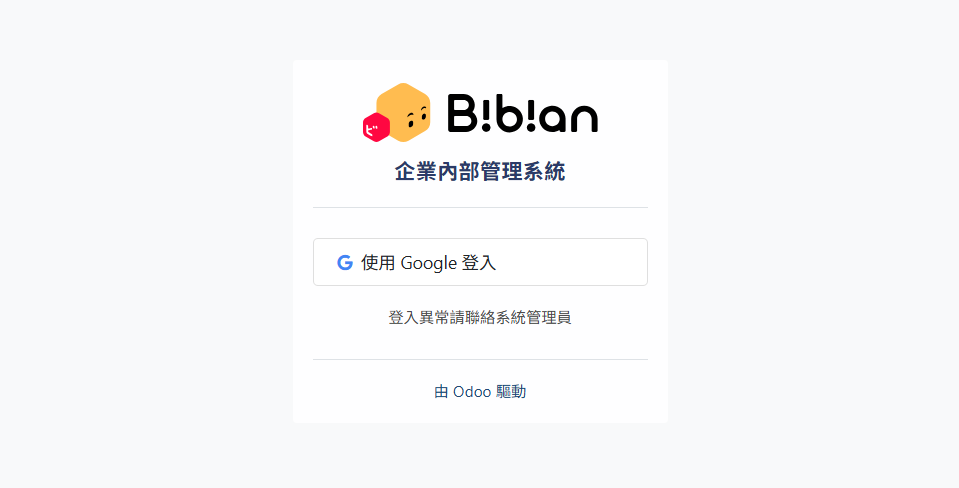
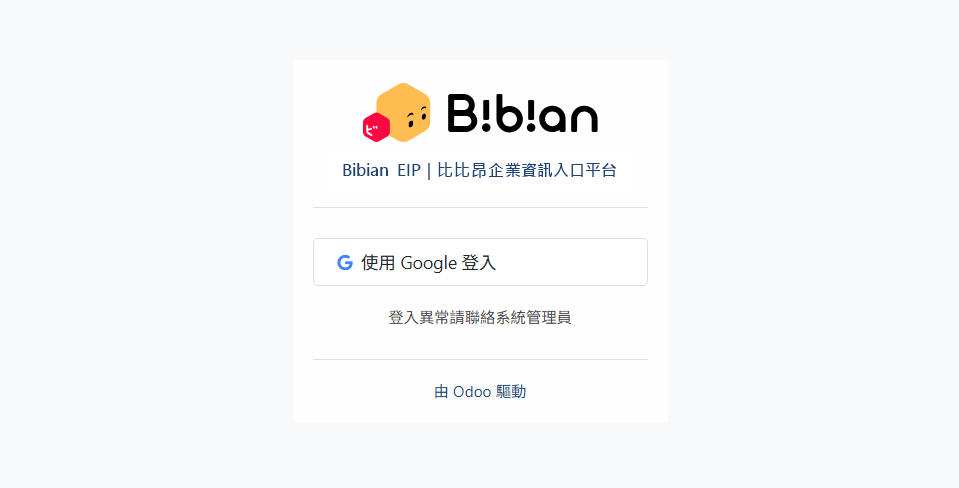
調整版面

Changed region(s): [[0.3629, 0.3074, 0.635, 0.3689]]

diff --git a/manual/index.html b/manual/index.html
@@ -3,7 +3,7 @@
 <html lang="zh-Hant">
 <head>
 <meta charset="utf-8"/>
-<title>比比昂企業內部管理系統—使用者操作手冊</title>
+<title>Bibian EIP 比比昂企業資訊入口平台—使用者操作手冊</title>
 <style>
   :root {
     --navy: #1c3f66;
@@ -117,12 +117,17 @@
     margin: 10px 0 20px;
   }
   section h3 {
-    font-size: 15px;
-    margin: 26px 0 10px;
-    color: var(--text-dark);
+    font-size: 17px;
+    margin: 40px 0 12px;
+    padding: 10px 12px;
+    color: #b45309;
+    background: #fff7ed;
+    border-left: 4px solid var(--orange);
+    border-radius: 0 5px 5px 0;
+    line-height: 1.45;
     scroll-margin-top: 20px;
   }
-  section h3:first-of-type { margin-top: 18px; }
+  section h3:first-of-type { margin-top: 28px; }
   section h4 {
     font-size: 14px;
     margin: 20px 0 8px;
@@ -178,35 +183,33 @@
   .document-link { color: var(--navy); font-weight: 700; }
   .image-link { display: block; cursor: zoom-in; }
   .image-link .shot { margin-bottom: 8px; }
+  .table-scroll { width: 100%; overflow-x: auto; margin-bottom: 18px; }
+  .table-scroll table { margin-bottom: 0; }
   .approval-actions th:first-child, .approval-actions td:first-child { white-space: nowrap; width: 1%; }
+  .role-admin { background: #ece9f8; color: #6047a5; }
   .shot-caption {
     font-size: 12px;
     color: var(--text-gray);
     margin: -14px 0 20px;
   }
   .note {
-    background: #fff8e8;
-    border: 1px solid #f0deac;
+    background: #f5f6f8;
+    border: 1px solid #d8dde5;
+    border-left: 4px solid var(--navy);
     border-radius: 6px;
     padding: 10px 14px;
     font-size: 12.5px;
-    color: #8a6210;
+    color: #4b5563;
     margin: 0 0 16px;
   }
-  .note b { color: #6b4a06; }
+  .note b { color: var(--navy); }
   code {
     background: #f1f2f4;
     border-radius: 3px;
     padding: 1px 5px;
     font-size: 12.5px;
   }
-  mark {
-    background: #fdecc0;
-    color: var(--text-dark);
-    font-weight: 700;
-    padding: 1px 4px;
-    border-radius: 3px;
-  }
+
   .badge {
     display: inline-block;
     font-size: 12px;
@@ -235,8 +238,8 @@
 <div class="doc-header">
 <img alt="Bibian" src="images/logo.png"/>
 <div class="titles">
-<h1>比比昂企業內部管理系統—使用者操作手冊</h1>
-<p>Bibian Enterprise Internal Management System — User Guide</p>
+<h1>Bibian EIP 比比昂企業資訊入口平台—使用者操作手冊</h1>
+<p>Bibian EIP — User Guide</p>
 </div>
 </div>
 <div class="layout">
@@ -244,7 +247,7 @@
 <h3>目錄</h3>
 <ol>
 <li><a href="#s0">關於本手冊</a></li>
-<li><a href="#s1">登入系統</a><ul class="toc-sub"><li><a href="#s1-1">2.1 連線公司環境（安裝 NetBird VPN）</a></li><li><a href="#s1-2">2.2 登入企業內部管理系統</a></li></ul></li>
+<li><a href="#s1">登入系統</a><ul class="toc-sub"><li><a href="#s1-1">2.1 連線公司環境（安裝 NetBird VPN）</a></li><li><a href="#s1-2">2.2 登入 Bibian EIP</a></li></ul></li>
 <li><a href="#s2">系統導覽</a></li>
 <li><a href="#s3">總覽頁面</a></li>
 <li><a href="#s4">請款單管理</a>
@@ -252,15 +255,15 @@
 </li>
 
 
-<li><a href="#s5">代理人設定</a><ul class="toc-sub"><li><a href="#s5-1">6.1 我的代理人</a></li><li><a href="#s5-2">6.2 人員代理設定</a></li></ul></li><li><a href="#s6">登出</a></li>
+<li><a href="#s5">代理人設定</a><ul class="toc-sub"><li><a href="#s5-1">6.1 我的代理人</a></li></ul></li><li><a href="#s6">登出</a></li>
 </ol>
 </nav>
 <div class="content">
-<section id="s0"><h2>關於本手冊</h2><p>本手冊提供「比比昂企業內部管理系統」日常操作說明，協助申請人完成請款單申請、查詢進度，以及協助簽核主管處理待簽核表單。</p><h3>上線範圍</h3><p><mark>目前提供「網家跨境服務股份有限公司」之請款單申請與簽核流程。</mark></p><p>請款單完成核准後，申請人請列印已核准表單，並依現行作業規定備妥相關文件，送交財務單位辦理後續請款作業。</p></section>
-<section id="s1"><h2>登入系統</h2><p class="section-desc">使用正式環境前，請先連線 NetBird VPN，再使用公司 Google 帳號登入。</p><h3 id="s1-1">2.1 連線公司環境（安裝 NetBird VPN）</h3><p>無論使用公司內部或外部網路，皆須先開啟 NetBird，並確認連線狀態顯示為「Connected」。</p><img alt="NetBird VPN 已連線畫面" class="shot shot-vpn" src="images/00-vpn-connected.png"/><p><a class="document-link" href="docs/netbird-setup-guide.pdf" target="_blank" rel="noopener">開啟 NetBird 連線設定教學（PDF）</a></p><div class="note"><b>連線提醒：</b>若 NetBird 未顯示「Connected」，可能無法開啟企業內部管理系統。請先重新連線；仍無法使用時，請聯絡系統管理員。</div><h3 id="s1-2">2.2 登入企業內部管理系統</h3><p>開啟企業內部管理系統登入頁面後，請使用公司 Google 帳號登入。</p><img alt="登入頁" class="shot" src="images/01-login.png"/><ol><li>點擊「使用 Google 登入」。</li><li>選擇或驗證公司的 Google 帳號。</li><li>驗證完成後，系統將自動進入「總覽」頁面。</li></ol><p>若無法登入，請聯絡系統管理員協助處理。</p></section>
+<section id="s0"><h2>關於本手冊</h2><p>本手冊提供「Bibian EIP 比比昂企業資訊入口平台」日常操作說明，協助申請人完成請款單申請、查詢進度，以及協助簽核主管處理待簽核表單。</p><h3>上線範圍：目前提供「網家跨境服務股份有限公司」之請款單申請與簽核流程。</h3><p>請款單完成核准後，申請人請列印已核准表單，並依現行作業規定備妥相關文件，送交財務單位辦理後續請款作業。</p></section>
+<section id="s1"><h2>登入系統</h2><p class="section-desc">使用正式環境前，請先連線 NetBird VPN，再使用公司 Google 帳號登入。</p><h3 id="s1-1">2.1 連線公司環境（安裝 NetBird VPN）</h3><p>無論使用公司內部或外部網路，皆須先開啟 NetBird，並確認連線狀態顯示為「Connected」。</p><img alt="NetBird VPN 已連線畫面" class="shot shot-vpn" src="images/00-vpn-connected.png"/><p><a class="document-link" href="docs/netbird-setup-guide.pdf" target="_blank" rel="noopener">開啟 NetBird 連線設定教學（PDF）</a></p><div class="note"><b>連線提醒：</b>若 NetBird 未顯示「Connected」，可能無法開啟 Bibian EIP。請先重新連線；仍無法使用時，請聯絡系統管理員。</div><h3 id="s1-2">2.2 登入 Bibian EIP</h3><p>開啟 Bibian EIP 登入頁面後，請使用公司 Google 帳號登入。</p><img alt="登入頁" class="shot" src="images/01-login.png"/><ol><li>點擊「使用 Google 登入」。</li><li>選擇或驗證公司的 Google 帳號。</li><li>驗證完成後，系統將自動進入「總覽」頁面。</li></ol><p>若無法登入，請聯絡系統管理員協助處理。</p></section>
 <section id="s2"><h2>系統導覽</h2><p class="section-desc">登入後，可透過頁面上方的導覽列快速切換功能。</p><h3>3.1 切換主要功能</h3><p>點擊左上角九宮格圖示，可切換「總覽」及「表單申請／簽核」。</p><img alt="九宮格選單" class="shot shot-nav" src="images/02-main-menu.png"/><h3>3.2 切換子功能</h3><p>將滑鼠移至導覽列的功能分類，例如「行政相關表單」，即可展開子選單。點擊「請款單管理」後，可進入對應的操作頁面。</p><img alt="子選單展開" class="shot shot-nav" src="images/03-sub-menu.png"/><h3>3.3 確認目前位置</h3><p>Logo 下方的麵包屑會顯示目前所在位置，例如「總覽 &gt; 表單申請／簽核 &gt; 行政相關表單 &gt; 請款單管理」，可協助確認目前操作頁面。</p><h3>3.4 使用者選單</h3><p>點擊右上角的使用者名稱，可開啟使用者選單並登出系統。實際顯示功能會依帳號權限而有所不同。</p></section>
-<section id="s3"><h2>總覽頁面</h2><p class="section-desc">登入後會先進入「總覽」，可快速查看與自己相關的申請及待簽核事項。</p><img alt="總覽頁面" class="shot" src="images/04-dashboard.png"/><h3>行政表單－我的申請</h3><ul><li><b>簽核申請中：</b>已送出，目前仍在簽核流程中的申請。</li><li><b>退回待處理：</b>遭退回，等待自己修改後重新送出的申請。</li><li><b>近 14 天已核准：</b>最近 14 天內完成核准的申請。</li></ul><h3>行政表單－簽核作業</h3><ul><li><b>待我簽核：</b>目前等待自己處理的表單。</li></ul><p>卡片上的數字代表目前符合該狀態的表單筆數。點擊卡片，可前往對應的請款單列表查看資料。</p><p>頁面下方的「比比昂企業內部管理系統—操作說明手冊」可開啟本操作手冊。</p></section>
-<section id="s4"><h2>請款單管理</h2><h3 id="s4-1">5.1 請款簽核流程與通知說明</h3><p>請款單送出後，系統會依申請金額及簽核規則，依序送交申請人直屬主管、CBS 副總經理、集團總經理及財務單位處理。未達指定金額門檻時，系統會略過對應的簽核關卡。</p><p>流程送出、退回、核准、撤回或到達待簽核關卡時，系統會寄送 Email 通知相關人員。</p><a class="image-link" href="images/05-approval-flow.png" target="_blank" rel="noopener" title="開啟原尺寸流程圖"><img alt="CBS 請款簽核流程與 Email 通知說明" class="shot" src="images/05-approval-flow.png"/></a><p class="shot-caption">點擊圖片可另開原尺寸流程圖。</p><h3 id="s4-2">5.2 請款單管理列表</h3><p class="section-desc">可在此新增請款單、追蹤自己的申請進度，或處理等待自己簽核的表單。</p><p><b>進入方式：</b>「行政相關表單 ▾」→「請款單管理」。</p><img alt="請款單管理列表" class="shot" src="images/06-purchase-list.png"/><h4>頁籤說明</h4><ul><li><b>我的申請單：</b>查看自己建立的請款單及目前處理進度。</li><li><b>待簽核表單：</b>查看目前等待自己簽核的請款單。</li><li><b>已簽核表單：</b>查看自己曾經處理過的簽核表單。</li><li><b>全部表單：</b>依帳號權限查看目前可存取的全部請款單。</li></ul><h4>查詢資料</h4><p>可依畫面提供的條件篩選資料。輸入條件後點擊「查詢」；如要重新設定條件，點擊「清除」即可。</p><h4>常用操作</h4><ul><li><b>編輯：</b>修改可編輯的申請單內容。</li><li><b>簽核：</b>進入目前等待自己處理的表單。</li><li><b>查看：</b>查看表單內容及簽核紀錄。</li><li><b>列印：</b>列印該筆表單。</li><li><b>複製：</b>以既有資料建立一張新的表單。</li></ul><div class="note"><b>撤回：</b>已送出但第一關尚未完成簽核時，可勾選表單後撤回。<br/><b>刪除：</b>尚未送出簽核的草稿，可勾選後刪除。</div><h3 id="s4-3">5.3 新增／維護請款單</h3><p>點擊列表右上角「＋新增」，即可建立新的請款單。</p><img alt="新增請款單頁面" class="shot" src="images/07-purchase-form.png"/><h4>填寫步驟</h4><ol><li>確認申請人、申請單位及申請日期。</li><li>選擇請款公司、支出科目及付款方式。</li><li>如付款方式為匯款，依畫面選擇匯款帳戶類型與付款對象，並確認匯款資料。</li><li>選擇手續費負擔方式。</li><li>依請款內容填寫發票號碼、請款明細，並視需要上傳附件。</li><li>確認資料後，可點擊「儲存草稿」暫存，或點擊「送出簽核」進入簽核流程。</li></ol><div class="note"><b>附件提醒：</b>請依請款內容檢附相關附件。單據請確認載有公司全銜、統一編號，並加蓋對方之統一發票專用章或免用統一發票專用章。</div><h4>退回後修改</h4><p>若申請單遭退回，可至「我的申請單」開啟該筆資料，依簽核意見完成修改後再次送出。</p><h3 id="s4-4">5.4 請款單簽核</h3><p>表單詳細頁可查看目前的簽核關卡及完整簽核歷程，方便確認目前處理進度。</p><img alt="簽核關卡與簽核歷程" class="shot" src="images/08-approval-history.png"/><h4>簽核主管操作</h4><ol><li>收到 Email 通知後，可由系統「總覽」的「待我簽核」卡片，或「請款單管理」的「待簽核表單」頁籤，進入待處理的請款單。</li><li>找到要處理的表單，點擊「簽核」。</li><li>確認申請內容、請款明細及附件。</li><li>依實際情況選擇「核准本關」或退回方式。</li></ol><img alt="簽核請款單頁面" class="shot" src="images/09-approval-form.png"/><h4>核准與退回</h4><table class="approval-actions"><tr><th>操作</th><th>使用時機</th></tr><tr><td><b>核准本關</b></td><td>確認內容無誤，同意此筆申請。</td></tr><tr><td><b>退回（重新簽核）</b></td><td>請申請人修正；重新送出後，會由第一關重新進行簽核。</td></tr><tr><td><b>退回（僅本關重審）</b></td><td>僅供財務人員於最後資料審查階段使用。<br/>若退回原因不涉及請款金額異動，可使用此方式；申請人修正並重新送出後，將直接送回財務重審，無須重新經過前序簽核關卡。<br/>若涉及請款金額異動，請使用「退回（重新簽核）」。</td></tr></table><p>選擇操作後，依畫面填寫簽核意見或退回原因並確認送出。退回時須填寫退回原因，讓申請人了解需要修改的內容。</p><img alt="簽核意見對話框" class="shot" src="images/10-approval-comment.png"/><div class="note"><b>核准後：</b>申請人請依後續作業通知列印請款單，並備妥相關附件及單據正本，送交財務單位辦理後續作業。</div></section><section id="s5"><h2>代理人設定</h2><h3 id="s5-1">6.1 我的代理人</h3><p>當您因休假、出差或其他原因無法親自處理簽核時，可事先設定代理人及代理期間。代理期間生效後，相關待簽核表單可由指定代理人協助處理。</p><p><b>進入方式：</b>「代理人設定 ▾」→「我的代理人」。</p><img alt="我的代理人設定頁" class="shot" src="images/11-my-delegate.png"/><h4>設定方式</h4>
+<section id="s3"><h2>總覽頁面</h2><p class="section-desc">登入後會先進入「總覽」，可快速查看與自己相關的申請及待簽核事項。</p><a class="image-link" href="images/04-dashboard.png" target="_blank" rel="noopener" title="開啟原尺寸圖片"><img alt="總覽頁面" class="shot" src="images/04-dashboard.png"/></a><h3>行政表單－我的申請</h3><ul><li><b>簽核申請中：</b>已送出，目前仍在簽核流程中的申請。</li><li><b>退回待處理：</b>遭退回，等待自己修改後重新送出的申請。</li><li><b>近 14 天已核准：</b>最近 14 天內完成核准的申請。</li></ul><h3>行政表單－簽核作業</h3><ul><li><b>待我簽核：</b>目前等待自己處理的表單。</li></ul><p>卡片上的數字代表目前符合該狀態的表單筆數。點擊卡片，可前往對應的請款單列表查看資料。</p><p>頁面下方的「Bibian EIP 比比昂企業資訊入口平台—操作說明手冊」可開啟本操作手冊。</p></section>
+<section id="s4"><h2>請款單管理</h2><h3 id="s4-1">5.1 請款簽核流程與通知說明</h3><p>請款單送出後，系統會依申請金額及簽核規則，依序送交申請人直屬主管、CBS 副總經理、集團總經理及財務單位處理。未達指定金額門檻時，系統會略過對應的簽核關卡。</p><p>流程送出、退回、核准、撤回或到達待簽核關卡時，系統會寄送 Email 通知相關人員。</p><a class="image-link" href="images/05-approval-flow.png" target="_blank" rel="noopener" title="開啟原尺寸流程圖"><img alt="CBS 請款簽核流程與 Email 通知說明" class="shot" src="images/05-approval-flow.png"/></a><p class="shot-caption">點擊圖片可另開原尺寸流程圖。</p><h3 id="s4-2">5.2 請款單管理列表</h3><p class="section-desc">可在此新增請款單、追蹤自己的申請進度，或處理等待自己簽核的表單。</p><p><b>進入方式：</b>「行政相關表單 ▾」→「請款單管理」。</p><a class="image-link" href="images/06-purchase-list.png" target="_blank" rel="noopener" title="開啟原尺寸圖片"><img alt="請款單管理列表" class="shot" src="images/06-purchase-list.png"/></a><h4>頁籤說明</h4><ul><li><b>我的申請單：</b>查看自己建立的請款單及目前處理進度。</li><li><b>待簽核表單：</b>查看目前等待自己簽核的請款單。</li><li><b>已簽核表單：</b>查看自己曾經處理過的簽核表單。</li><li><b>全部表單：</b>依帳號權限查看目前可存取的全部請款單。</li></ul><h4>查詢資料</h4><p>可依畫面提供的條件篩選資料。輸入條件後點擊「查詢」；如要重新設定條件，點擊「清除」即可。</p><h4>常用操作</h4><ul><li><b>編輯：</b>修改可編輯的申請單內容。</li><li><b>簽核：</b>進入目前等待自己處理的表單。</li><li><b>查看：</b>查看表單內容及簽核紀錄。</li><li><b>列印：</b>列印該筆表單。</li><li><b>複製：</b>以既有資料建立一張新的表單。</li></ul><div class="note"><b>撤回：</b>已送出但第一關尚未完成簽核時，可勾選表單後撤回。<br/><b>刪除：</b>尚未送出簽核的草稿，可勾選後刪除。</div><h3 id="s4-3">5.3 新增／維護請款單 <span class="role-tag role-applicant">申請人</span></h3><p>點擊列表右上角「＋新增」，即可建立新的請款單。</p><a class="image-link" href="images/07-purchase-form.png" target="_blank" rel="noopener" title="開啟原尺寸圖片"><img alt="新增請款單頁面" class="shot" src="images/07-purchase-form.png"/></a><h4>填寫步驟</h4><ol><li>確認申請人、申請單位及申請日期。</li><li>選擇請款公司、支出科目及付款方式。</li><li>如付款方式為匯款，依畫面選擇匯款帳戶類型與付款對象，並確認匯款資料。</li><li>選擇手續費負擔方式。</li><li>依請款內容填寫發票號碼、請款明細，並視需要上傳附件。</li><li>確認資料後，可點擊「儲存草稿」暫存，或點擊「送出簽核」進入簽核流程。</li></ol><div class="note"><b>附件提醒：</b>請依請款內容檢附相關附件。單據請確認載有公司全銜、統一編號，並加蓋對方之統一發票專用章或免用統一發票專用章。</div><h4>退回後修改</h4><p>若申請單遭退回，可至「我的申請單」開啟該筆資料，依簽核意見完成修改後再次送出。</p><h3 id="s4-4">5.4 請款單簽核 <span class="role-tag role-approver">簽核者</span></h3><p>表單詳細頁可查看目前的簽核關卡及完整簽核歷程，方便確認目前處理進度。</p><a class="image-link" href="images/08-approval-history.png" target="_blank" rel="noopener" title="開啟原尺寸圖片"><img alt="簽核關卡與簽核歷程" class="shot" src="images/08-approval-history.png"/></a><h4>簽核主管操作</h4><ol><li>收到 Email 通知後，可由系統「總覽」的「待我簽核」卡片，或「請款單管理」的「待簽核表單」頁籤，進入待處理的請款單。</li><li>找到要處理的表單，點擊「簽核」。</li><li>確認申請內容、請款明細及附件。</li><li>依實際情況選擇「核准本關」或退回方式。</li></ol><a class="image-link" href="images/09-approval-form.png" target="_blank" rel="noopener" title="開啟原尺寸圖片"><img alt="簽核請款單頁面" class="shot" src="images/09-approval-form.png"/></a><h4>核准與退回</h4><div class="table-scroll"><table class="approval-actions"><tr><th>操作</th><th>使用時機</th></tr><tr><td><b>核准本關</b></td><td>確認內容無誤，同意此筆申請。</td></tr><tr><td><b>退回（重新簽核）</b></td><td>請申請人修正；重新送出後，會由第一關重新進行簽核。</td></tr><tr><td><b>退回（僅本關重審）</b></td><td>僅供財務人員於最後資料審查階段使用。<br/>若退回原因不涉及請款金額異動，可使用此方式；申請人修正並重新送出後，將直接送回財務重審，無須重新經過前序簽核關卡。<br/>若涉及請款金額異動，請使用「退回（重新簽核）」。</td></tr></table></div><p>選擇操作後，依畫面填寫簽核意見或退回原因並確認送出。退回時須填寫退回原因，讓申請人了解需要修改的內容。</p><a class="image-link" href="images/10-approval-comment.png" target="_blank" rel="noopener" title="開啟原尺寸圖片"><img alt="簽核意見對話框" class="shot" src="images/10-approval-comment.png"/></a><div class="note"><b>核准後：</b>申請人請依後續作業通知列印請款單，並備妥相關附件及單據正本，送交財務單位辦理後續作業。</div></section><section id="s5"><h2>代理人設定</h2><h3 id="s5-1">6.1 我的代理人 <span class="role-tag role-approver">簽核者</span></h3><p>當您因休假、出差或其他原因無法親自處理簽核時，可事先設定代理人及代理期間。代理期間生效後，相關待簽核表單可由指定代理人協助處理。</p><p><b>進入方式：</b>「代理人設定 ▾」→「我的代理人」。</p><a class="image-link" href="images/11-my-delegate.png" target="_blank" rel="noopener" title="開啟原尺寸圖片"><img alt="我的代理人設定頁" class="shot" src="images/11-my-delegate.png"/></a><h4>設定方式</h4>
 <ol>
 <li>於欲設定的公司區塊選擇「代理簽核者」。</li>
 <li>點擊「＋新增期間」，設定代理開始日與結束日。</li>
@@ -273,16 +276,7 @@
 <li><b>取消：</b>已開始生效的代理期間如需提前停止，可使用「取消」。取消後仍會保留該筆紀錄，但不再生效。</li>
 <li><b>刪除：</b>尚未開始的代理期間如不再需要，可直接刪除。</li>
 </ul>
-<p>如需改由其他人代理，請先選擇新的代理簽核者，再新增一筆新的代理期間。</p><img alt="新增代理簽核期間對話框" class="shot" src="images/12-delegate-period.png"/><h3 id="s5-2">6.2 人員代理設定</h3><p>此功能提供具管理權限的人員（如 HR）代為設定其他員工的簽核代理人。一般使用者如需設定自己的代理人，請使用「我的代理人」。</p><p><b>進入方式：</b>「代理人設定 ▾」→「人員代理設定」。</p><img alt="人員代理設定列表" class="shot" src="images/13-user-delegation.png"/><h4>查看與修改既有人員</h4>
-<p>列表會顯示已建立代理設定的人員，以及各公司目前生效的代理人。點擊「編輯」後，即可進入該員工的代理設定頁。</p>
-<p>後續代理人選擇、期間新增、編輯、取消與刪除方式，與「6.1 我的代理人」相同。</p>
-<h4>新增人員代理設定</h4>
-<ol>
-<li>點擊右上角「＋新增」。</li>
-<li>選擇需要代為設定的「原簽核者」。</li>
-<li>點擊「確認」進入該員工的代理設定頁。</li>
-<li>依公司選擇代理簽核者，並新增代理期間。</li>
-</ol><img alt="新增人員代理設定對話框" class="shot" src="images/14-add-user-delegation.png"/><div class="note"><b>權限提醒：</b>「人員代理設定」僅供具管理權限的指定人員使用；未具權限者不會顯示或無法使用此功能。</div></section>
+<p>如需改由其他人代理，請先選擇新的代理簽核者，再新增一筆新的代理期間。</p><a class="image-link" href="images/12-delegate-period.png" target="_blank" rel="noopener" title="開啟原尺寸圖片"><img alt="新增代理簽核期間對話框" class="shot" src="images/12-delegate-period.png"/></a></section>
 
 
 <section id="s6"><h2>登出</h2><p>完成操作後，點擊右上角「Hi {姓名} ▾」→「登出」，即可安全離開系統並返回登入頁面。</p></section>
